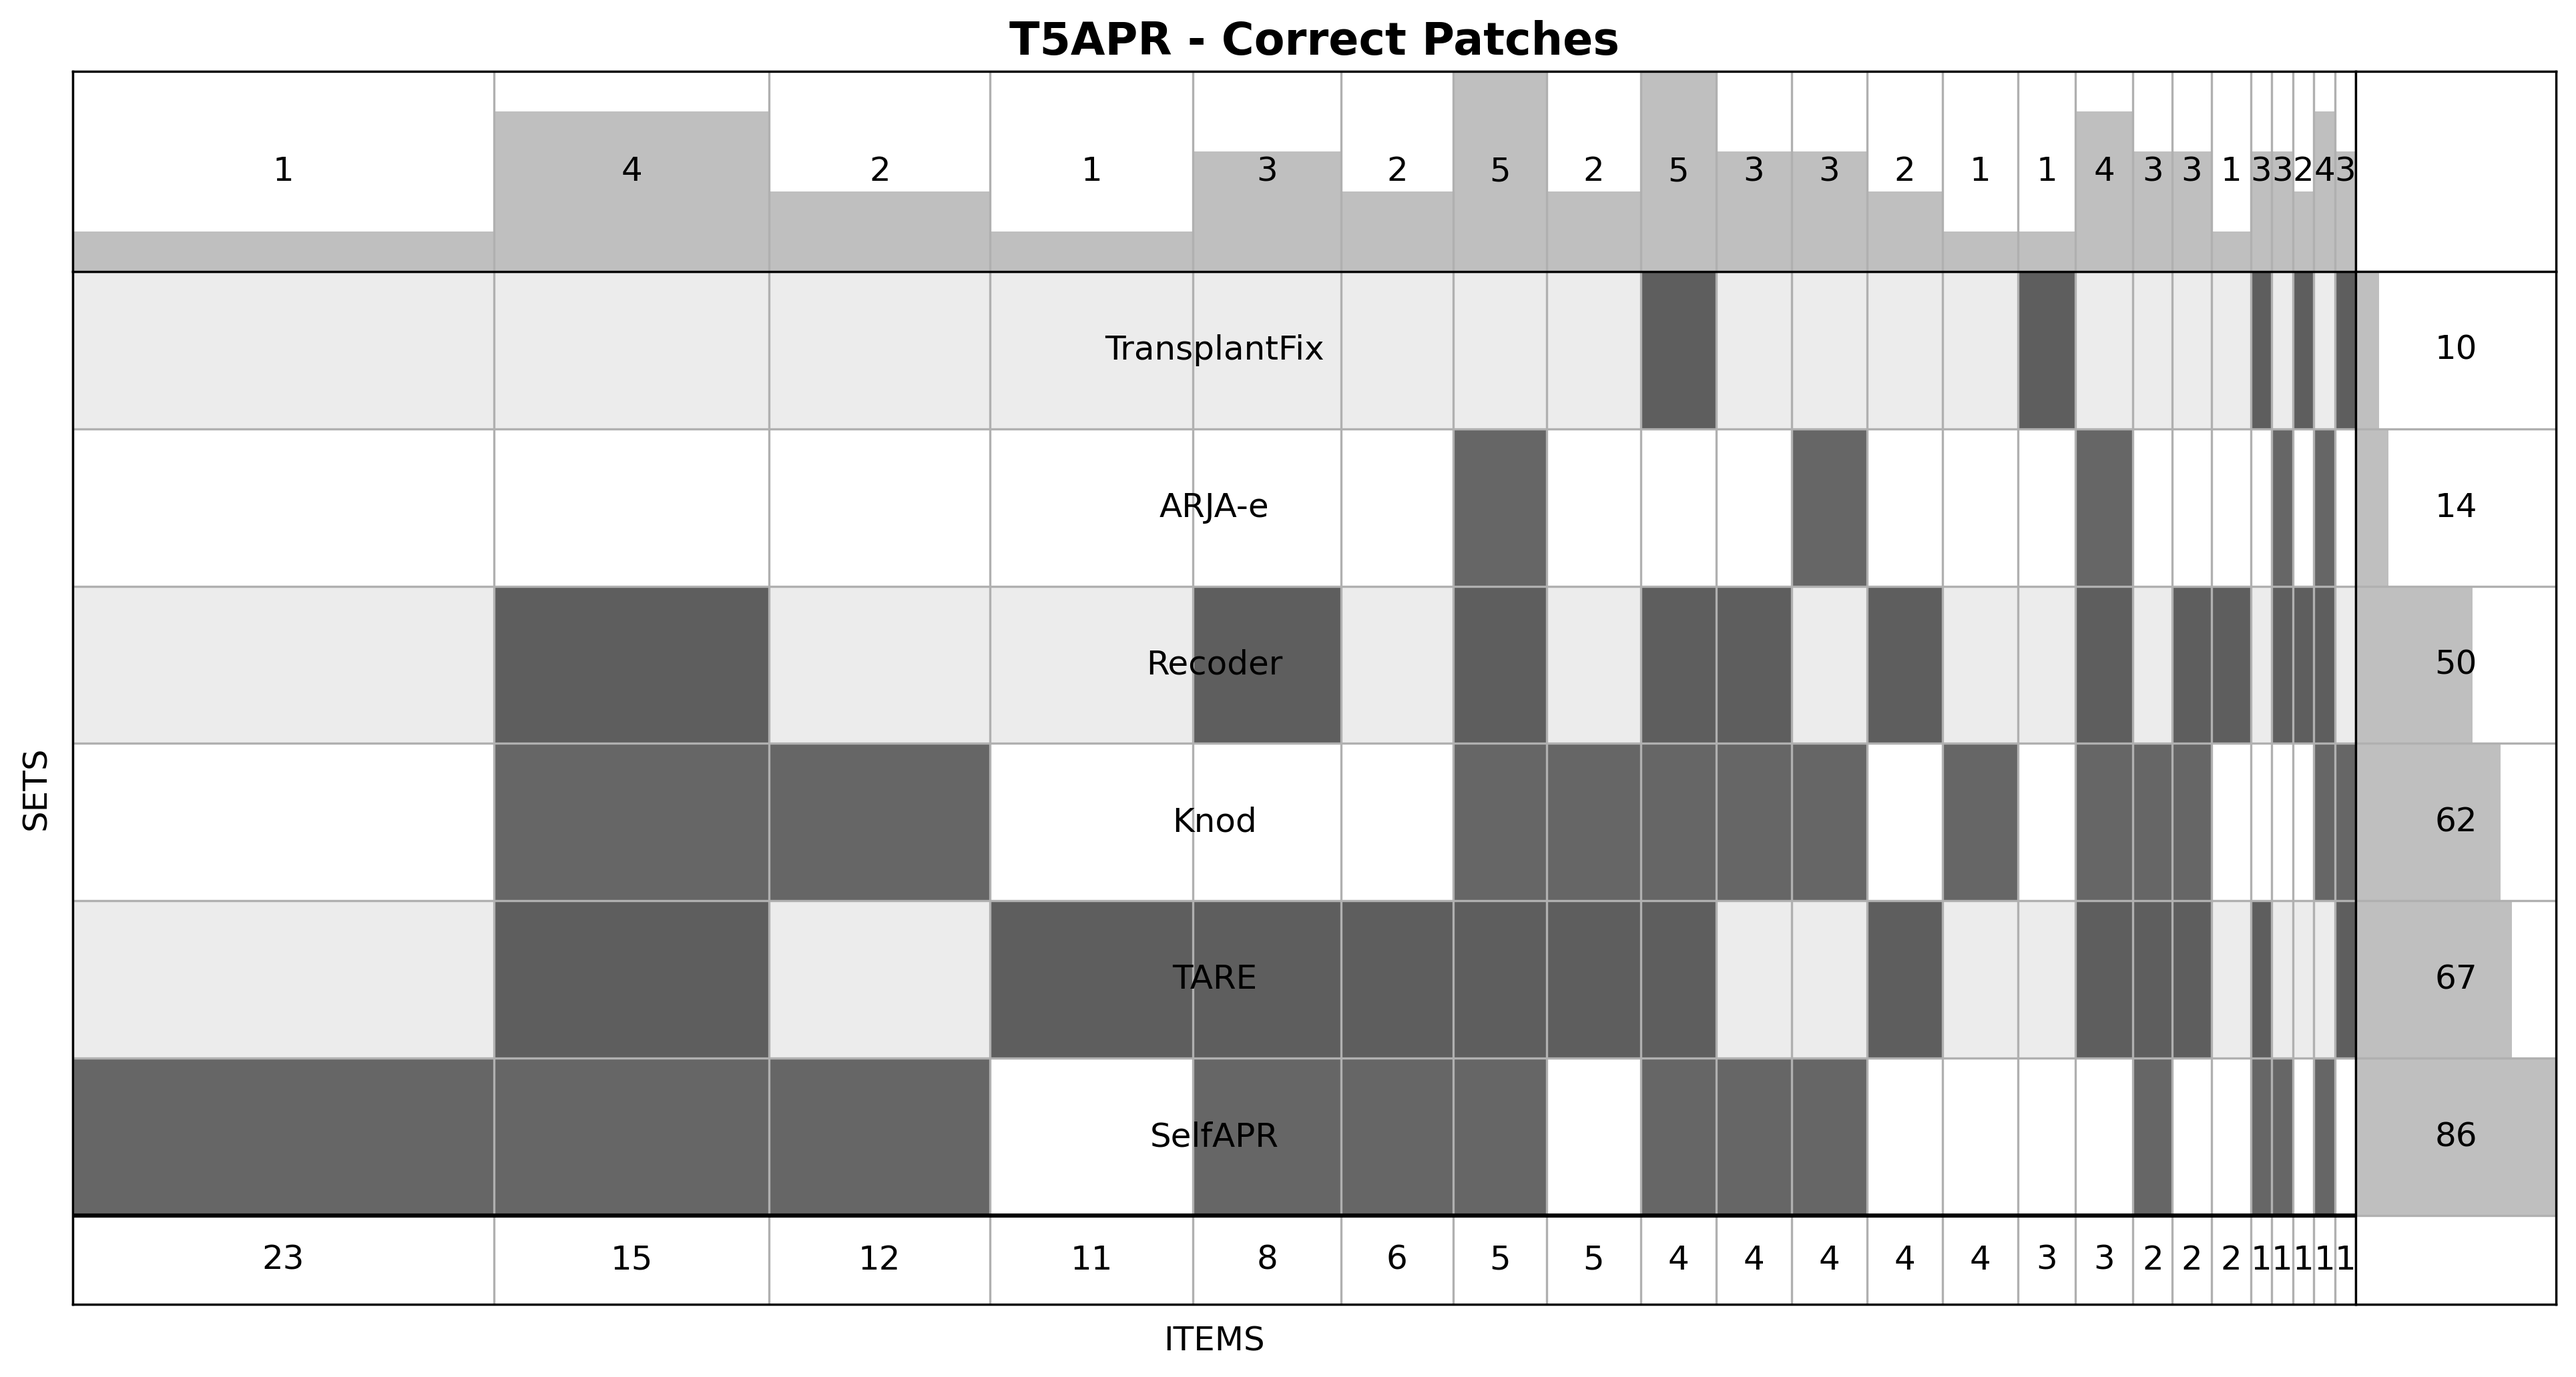
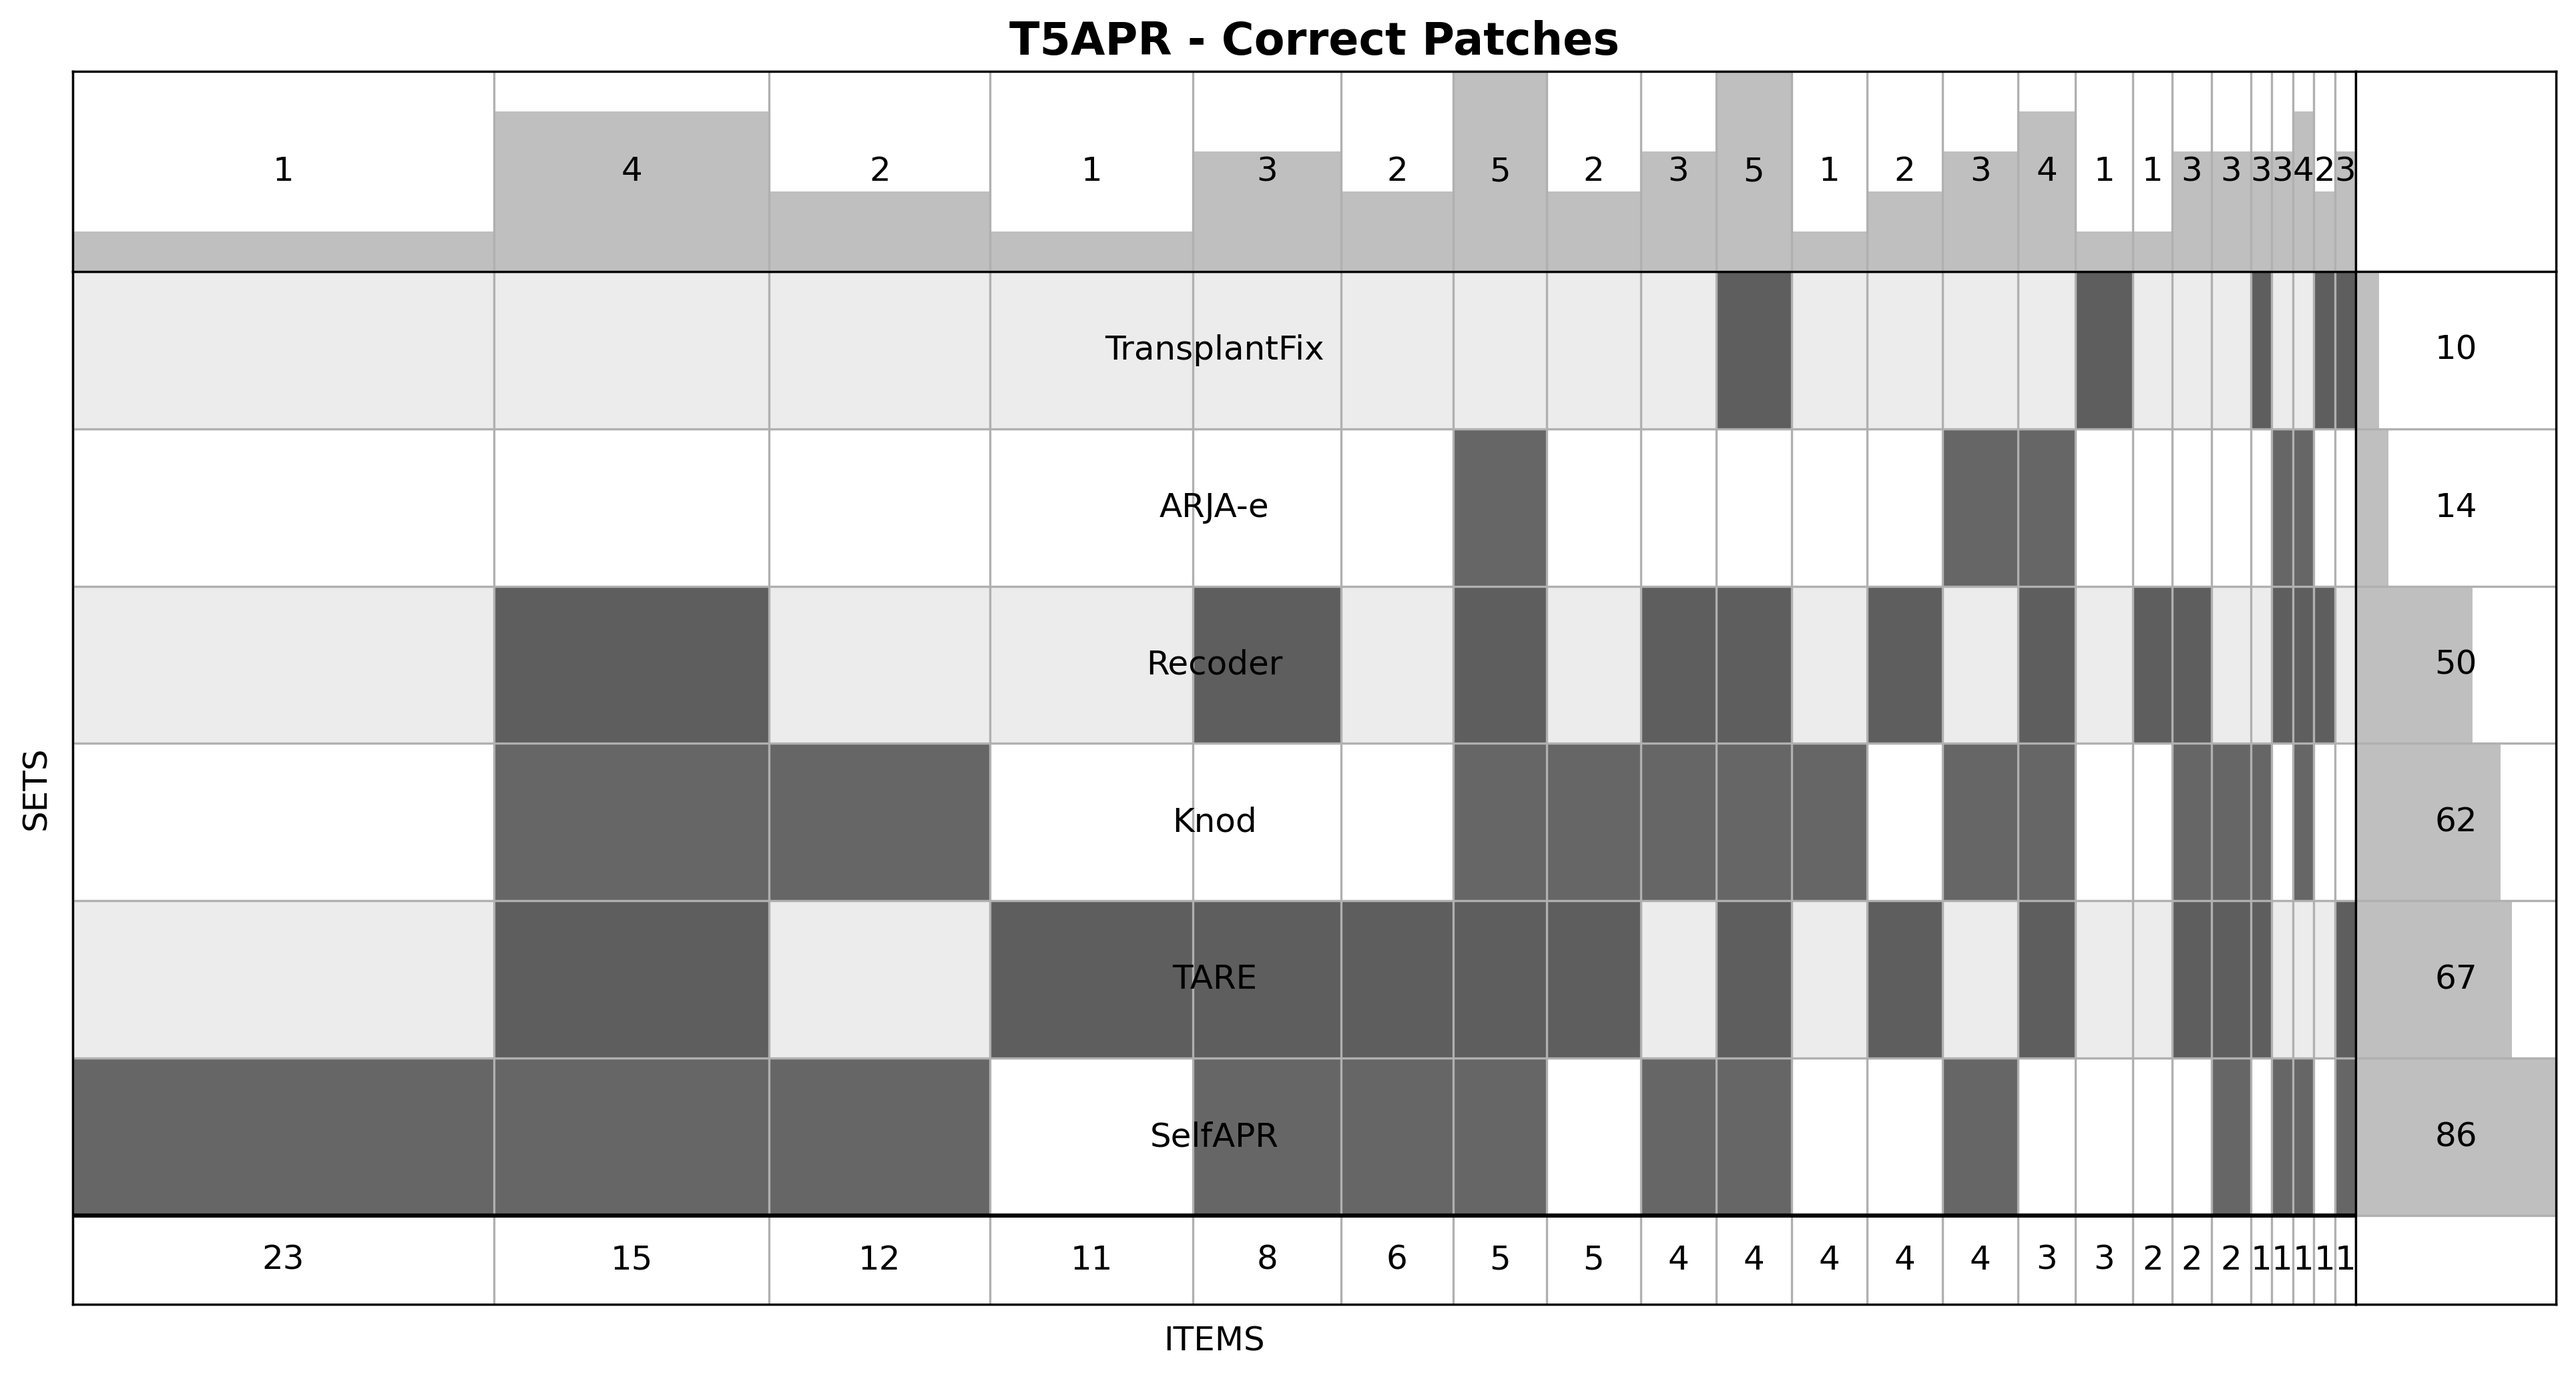
fix

Changed region(s): [[0.6219, 0.031, 0.9329, 0.8992]]

diff --git a/rq4_plot_upset.py b/rq4_plot_upset.py
@@ -653,9 +653,9 @@ def analyze_and_plot(tool_name, reference_tools):
         print("No overfitting patches - skipping diagram.")
 
 
-# if __name__ == "__main__":
-#     # analyze_and_plot("iter", ["dlfix", "arjae", "recoder", "circle", "transplantfix"])
-#     analyze_and_plot("t5apr", ["arjae", "recoder", "selfapr", "knod", "tare", "transplantfix"])
+if __name__ == "__main__":
+    # analyze_and_plot("iter", ["dlfix", "arjae", "recoder", "circle", "transplantfix"])
+    analyze_and_plot("t5apr", ["arjae", "recoder", "selfapr", "knod", "tare", "transplantfix"])
 
     
 
